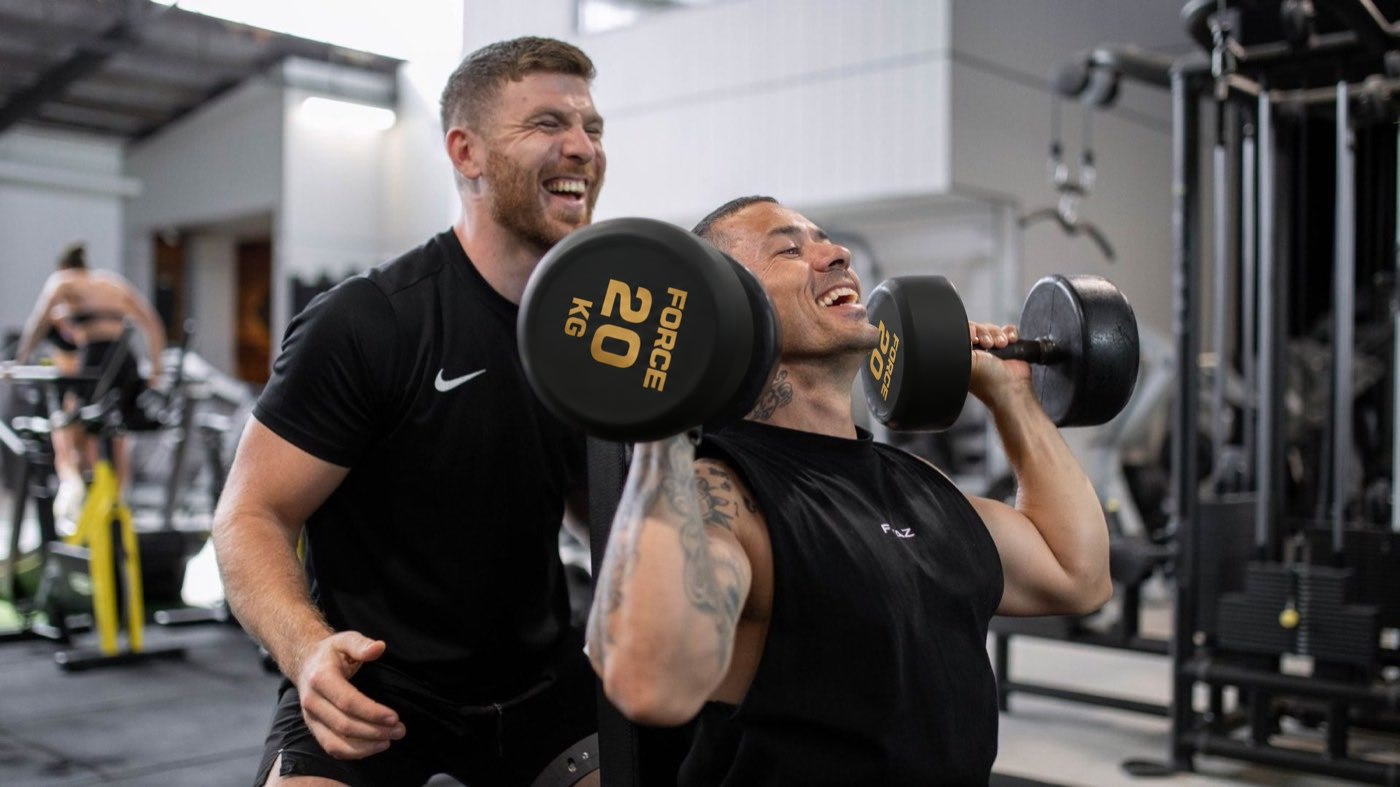
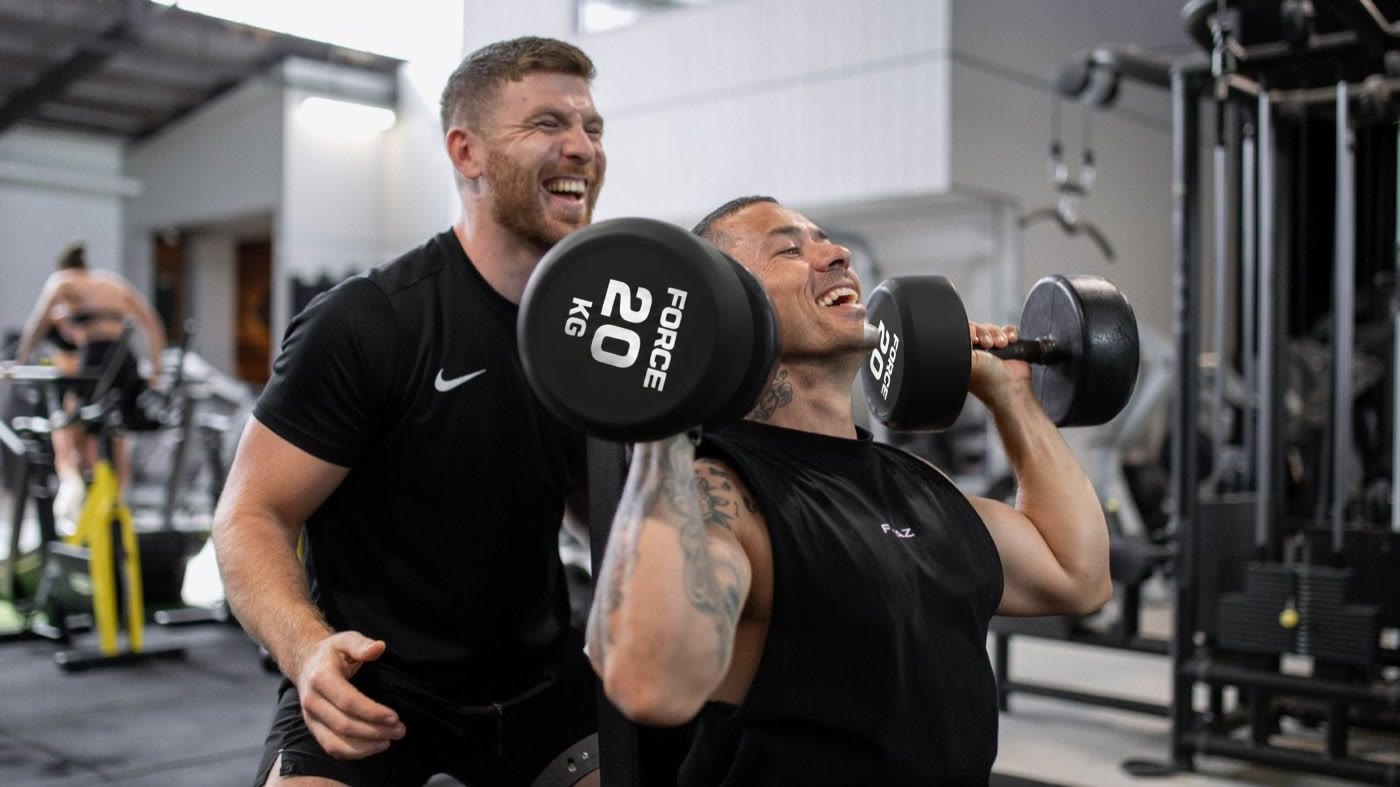
Heading and dumbbell lettering

Changed region(s): [[0.3993, 0.3355, 0.4914, 0.4879], [0.6143, 0.3964, 0.645, 0.4879]]

diff --git a/index.html b/index.html
@@ -66,7 +66,7 @@
   <div class="wrap"></div>
 </section>
 <section class="sec"><div class="wrap">
-  <div class="head2" data-rv><h2>Four ways to train at 101 Main Street</h2></div>
+  <div class="head2" data-rv><h2>4 ways to train at Fitaz Gym</h2></div>
   <div class="svc-grid"><a class="svc tilt" href="gym-floor.html" data-rv style="--i:0">
   <img src="img/d-oct-11.jpg" alt="A member front squatting at Fitaz Gym" style="--pos:35% 46%;--posm:50% 30%" >
   <div class="body pop"><h3>24/7 gym floor</h3><p>Racks, platforms, dumbbells, machines and cardio. Open every hour of every day.</p><span class="go">See the gym floor <i aria-hidden="true">→</i></span></div></a>
